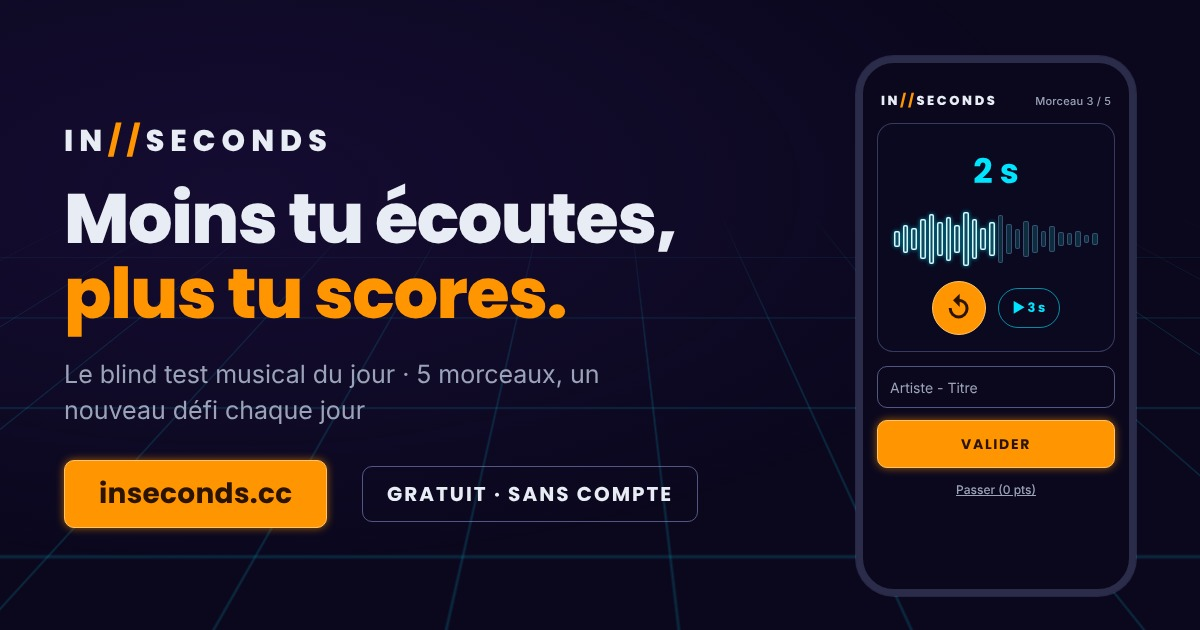
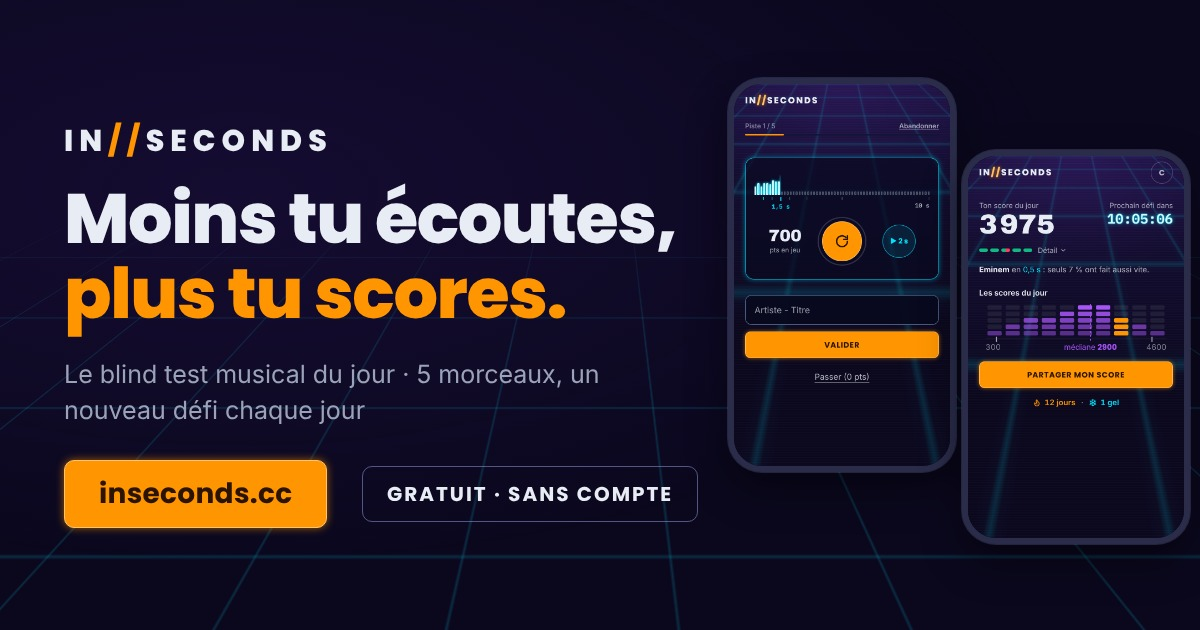
Image de partage : bandeau refait avec de vraies captures du jeu (manche et résultat du jour)

Changed region(s): [[0.5858, 0.0603, 1.0, 0.9651]]

diff --git a/src/front/CLAUDE.md b/src/front/CLAUDE.md
@@ -43,7 +43,7 @@ src/front/InSeconds.Client/
 │   ├── i18n/{fr,en}.json      # clés rangées par domaine (common, errors, shell, ui, puis daily, account…)
 │   ├── favicon.svg            # « IN// » du logo (Poppins 800, IN en blanc, // en ambre) sur le fond du site, comme la photo de profil Instagram
 │   ├── manifest.webmanifest + icons/   # installation sur l'écran d'accueil : mêmes « IN// » en PNG, // en ambre vif #FF9500 sur --rgb-bg (192, 512, apple-touch 180, maskable 512 avec une marge pour le recadrage d'Android)
-│   ├── og-image.jpg           # image de partage (og:image, 1200×630) : le titre, un bouton ambre uni et un lecteur dans la DA actuelle ; refaite à chaque changement de DA (jamais de pochette ni d'extrait Deezer)
+│   ├── og-image.jpg           # image de partage (og:image, 1200×630) : le titre, un bouton ambre uni et deux vraies captures du jeu (la manche et le résultat du jour, dans un cadre de téléphone) ; refaite à chaque changement de DA (jamais de pochette ni d'extrait Deezer : les captures se prennent avec les pochettes absentes)
 │   └── robots.txt, sitemap.xml         # robots.txt écarte /survie et l'ancien /runs (les liens de playlists ne s'indexent pas) ; sitemap de secours (/daily, /legal, /privacy) : Caddy envoie /sitemap.xml à l'API, qui ajoute les jours publiés
 └── src/app/
     ├── app.ts / app.html      # coquille : bandeau DEV, toasts, bandeau de mise à jour, avis d'ancienne adresse, overlay
